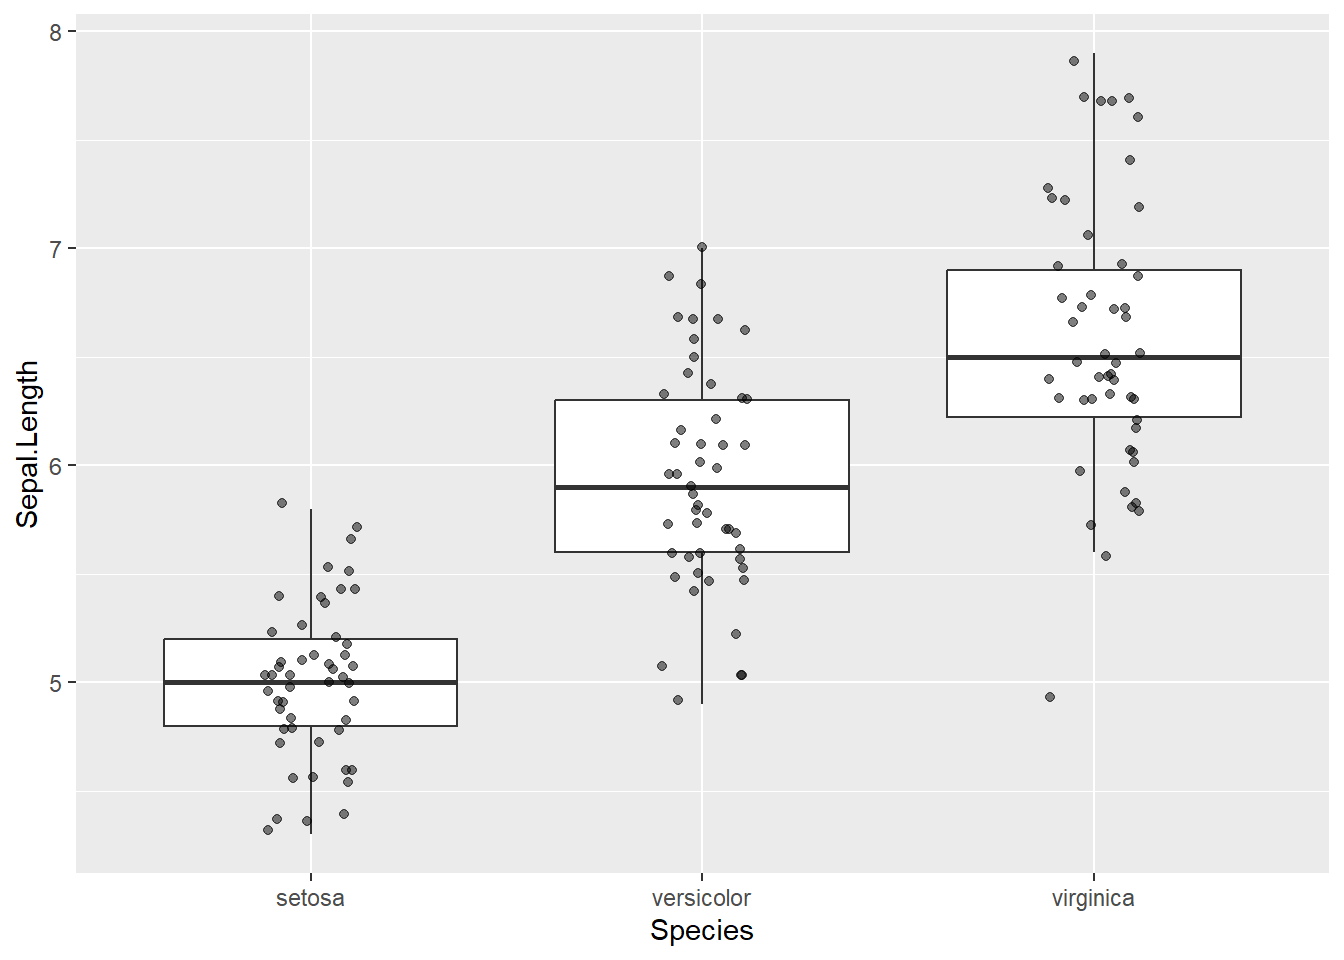
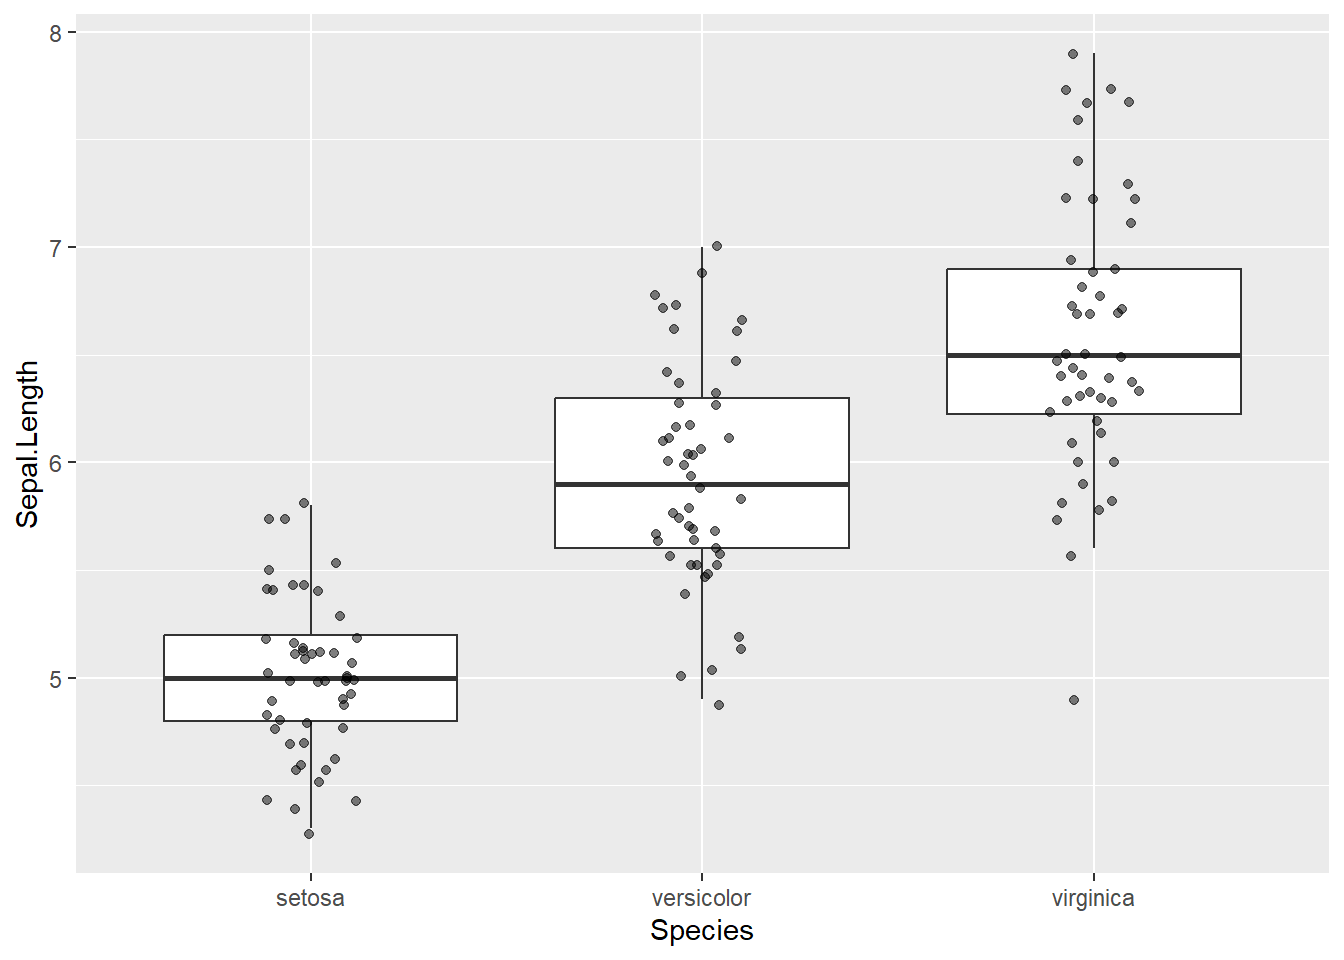
file manipulation

diff --git a/docs/lecture11.html b/docs/lecture11.html
@@ -935,8 +935,7 @@ window.Quarto = {
 <span id="cb25-2"><a href="#cb25-2" aria-hidden="true" tabindex="-1"></a><span class="fu">library</span>(ggplot2)</span>
 <span id="cb25-3"><a href="#cb25-3" aria-hidden="true" tabindex="-1"></a>cor_mat <span class="ot">&lt;-</span> <span class="fu">cor</span>(mtcars)</span>
 <span id="cb25-4"><a href="#cb25-4" aria-hidden="true" tabindex="-1"></a>cor_df <span class="ot">&lt;-</span> <span class="fu">melt</span>(cor_mat)</span>
-<span id="cb25-5"><a href="#cb25-5" aria-hidden="true" tabindex="-1"></a>p <span class="ot">&lt;-</span> <span class="fu">ggplot</span>(cor_df, <span class="fu">aes</span>(<span class="at">x =</span> Var1, <span class="at">y =</span> Var2, <span class="at">fill =</span> value)) <span class="sc">+</span> <span class="fu">geom_tile</span>(<span class="at">color =</span> <span class="st">"white"</span>) </span>
-<span id="cb25-6"><a href="#cb25-6" aria-hidden="true" tabindex="-1"></a><span class="fu">print</span>(p)</span></code></pre></div><button title="Copy to Clipboard" class="code-copy-button"><i class="bi"></i></button></div>
+<span id="cb25-5"><a href="#cb25-5" aria-hidden="true" tabindex="-1"></a><span class="fu">ggplot</span>(cor_df, <span class="fu">aes</span>(<span class="at">x =</span> Var1, <span class="at">y =</span> Var2, <span class="at">fill =</span> value)) <span class="sc">+</span> <span class="fu">geom_tile</span>(<span class="at">color =</span> <span class="st">"white"</span>) </span></code></pre></div><button title="Copy to Clipboard" class="code-copy-button"><i class="bi"></i></button></div>
 </details>
 <div class="cell-output-display">
 <div>
@@ -996,15 +995,12 @@ window.Quarto = {
 <div class="code-copy-outer-scaffold"><div class="sourceCode cell-code" id="cb29"><pre class="sourceCode r code-with-copy"><code class="sourceCode r"><span id="cb29-1"><a href="#cb29-1" aria-hidden="true" tabindex="-1"></a><span class="fu">install.packages</span>(<span class="st">"maps"</span>)</span></code></pre></div><button title="Copy to Clipboard" class="code-copy-button"><i class="bi"></i></button></div>
 </details>
 </div>
-<p>下面的代码如果检测到已经安装 <code>maps</code> 包，就显示世界地图；如果没有安装，就只给出提示，不会让讲义渲染报错。</p>
 <div class="cell">
 <details class="code-fold">
 <summary>Code</summary>
 <div class="code-copy-outer-scaffold"><div class="sourceCode cell-code" id="cb30"><pre class="sourceCode r code-with-copy"><code class="sourceCode r"><span id="cb30-1"><a href="#cb30-1" aria-hidden="true" tabindex="-1"></a><span class="fu">library</span>(maps)</span>
 <span id="cb30-2"><a href="#cb30-2" aria-hidden="true" tabindex="-1"></a>  world_map <span class="ot">&lt;-</span> <span class="fu">map_data</span>(<span class="st">"world"</span>)</span>
-<span id="cb30-3"><a href="#cb30-3" aria-hidden="true" tabindex="-1"></a>  <span class="fu">ggplot</span>(world_map, <span class="fu">aes</span>(<span class="at">x =</span> long, <span class="at">y =</span> lat, <span class="at">group =</span> group)) <span class="sc">+</span></span>
-<span id="cb30-4"><a href="#cb30-4" aria-hidden="true" tabindex="-1"></a>    <span class="fu">geom_polygon</span>(<span class="at">fill =</span> <span class="st">"grey85"</span>, <span class="at">color =</span> <span class="st">"white"</span>, <span class="at">linewidth =</span> <span class="fl">0.2</span>) <span class="sc">+</span></span>
-<span id="cb30-5"><a href="#cb30-5" aria-hidden="true" tabindex="-1"></a>    <span class="fu">coord_quickmap</span>()</span></code></pre></div><button title="Copy to Clipboard" class="code-copy-button"><i class="bi"></i></button></div>
+<span id="cb30-3"><a href="#cb30-3" aria-hidden="true" tabindex="-1"></a>  <span class="fu">ggplot</span>(world_map, <span class="fu">aes</span>(<span class="at">x =</span> long, <span class="at">y =</span> lat, <span class="at">group =</span> group)) <span class="sc">+</span>  <span class="fu">geom_polygon</span>() </span></code></pre></div><button title="Copy to Clipboard" class="code-copy-button"><i class="bi"></i></button></div>
 </details>
 <div class="cell-output-display">
 <div>
@@ -1020,7 +1016,6 @@ window.Quarto = {
 <li><code>lat</code> 表示纬度。</li>
 <li><code>group</code> 表示哪些点属于同一个区域边界。</li>
 <li><code>geom_polygon()</code> 用来画多边形区域。</li>
-<li><code>coord_quickmap()</code> 用来让地图比例更接近真实经纬度比例。</li>
 </ul>
 <p>本节只需要知道地图也可以用 <code>ggplot2</code> 画。地图投影、空间数据格式和真实地理分析后面再讲。</p>
 </section>